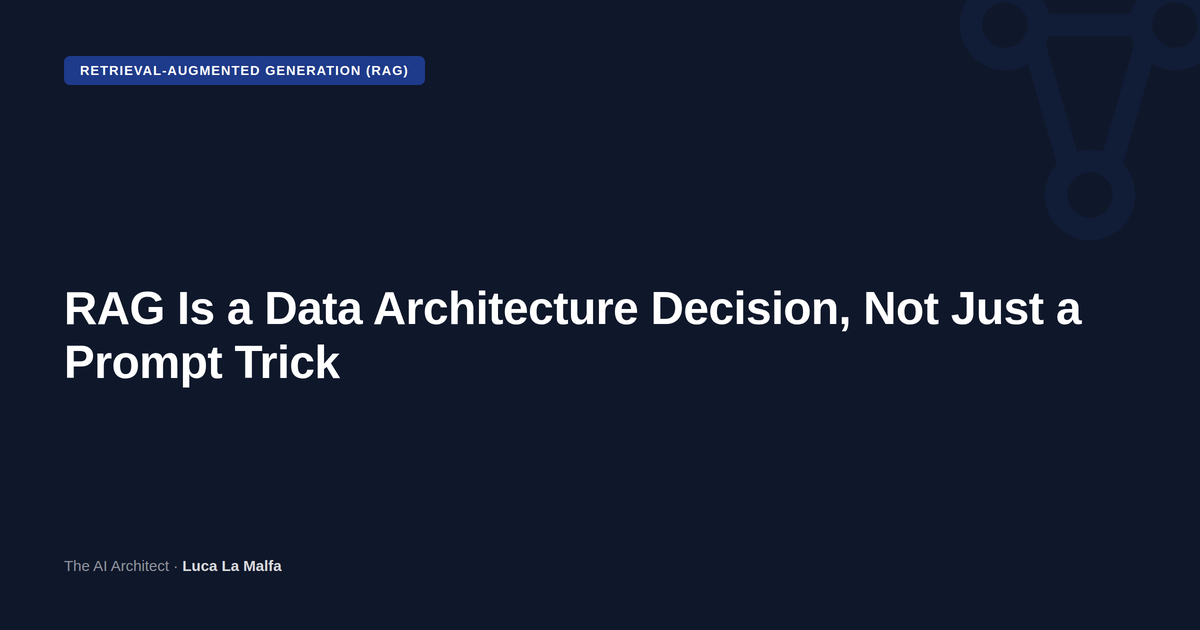
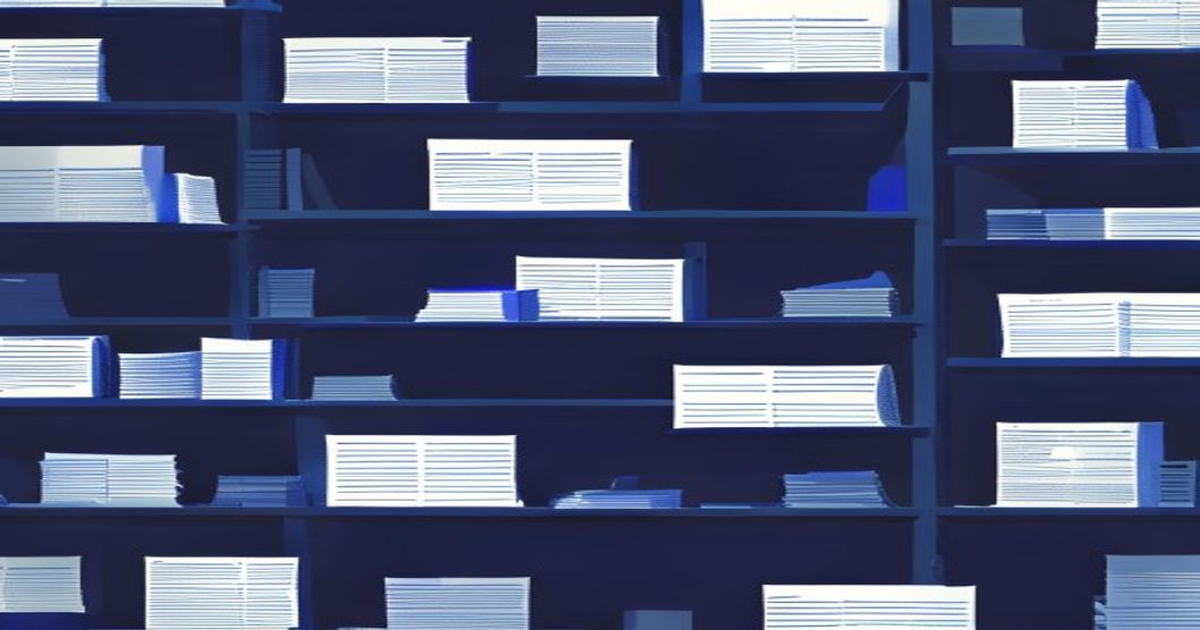
Replace flat-color hero cards with real AI-generated cover images
The branded flat-color card (single accent badge on a near-black
background) didn't read as marketing imagery and had no connection to
each article's actual content. Hero images now use a free, keyless AI
image-generation API: Claude writes a short SUBJECT description specific
to the article's actual idea (agents/site_writer_agent.generate_image_prompt),
which is combined with a fixed style suffix (utils/diagram_renderer.
IMAGE_STYLE_SUFFIX — flat minimalist vector illustration, navy/indigo-blue
palette matching the site's own design) so every image stays visually
consistent and professional regardless of topic. Falls back to an
improved version of the flat-color card (per-theme background color
instead of always near-black, plus a technique-specific icon instead of
a fixed one) if the AI image is ever unreachable — never blocks
publishing either way.

Regenerates all 10 previously-published articles' hero images and
og-default.png with the new approach (same filenames, so no page HTML
needed to change). scripts/regenerate_hero_images.py is the reusable,
committed version of that one-off regeneration.

Claude-Session: https://claude.ai/code/session_01CPQeQt8fRsPUSEt57ixNHQ

diff --git a/utils/diagram_renderer.py b/utils/diagram_renderer.py
@@ -13,8 +13,14 @@ import logging
 import math
 import random
 from pathlib import Path
+from urllib.parse import quote
 
-from config import FONT_BOLD_PATH, FONT_REGULAR_PATH, HERO_IMAGE_HEIGHT, HERO_IMAGE_WIDTH
+import requests
+
+from config import (
+    AI_IMAGE_API_URL, AI_IMAGE_TIMEOUT_SECONDS, FONT_BOLD_PATH, FONT_REGULAR_PATH,
+    HERO_IMAGE_HEIGHT, HERO_IMAGE_WIDTH,
+)
 
 log = logging.getLogger(__name__)
 
@@ -341,16 +347,75 @@ def _build_hero_html(heading: str, badge: str, theme: str) -> str:
     )
 
 
-def render_hero_image(heading: str, badge: str, theme: str, output_path: str | Path) -> bool:
-    """Render a 1200x630 branded cover image, generated for EVERY article regardless of
-    archetype or whether it has any inline diagram blocks (unlike render_flow_diagram /
+# Fixed rendering style appended to every article's Claude-written subject description
+# (agents.site_writer_agent.generate_image_prompt supplies the subject half) — keeps every
+# hero image visually consistent with the blog's own clean, minimal design system
+# (site/template.html's --bg/--header-bg/--accent) regardless of what specific scene each
+# article calls for, the same way THEMES fixes the diagram renderer's palette instead of
+# leaving color choice to the model's judgment.
+IMAGE_STYLE_SUFFIX = (
+    "flat minimalist vector illustration, simple clean geometric shapes with thin outlines, "
+    "generous off-white negative space, restricted color palette of deep navy blue and a "
+    "single indigo-blue accent only, soft and calm, professional editorial tech-blog cover "
+    "art style, no gradients, no 3D rendering, no photorealism, no dramatic lighting or "
+    "shadows, no text, no logos, no people"
+)
+
+
+def _fetch_ai_image(subject_prompt: str, width: int, height: int) -> bytes | None:
+    """Best-effort fetch from a free, keyless AI image generation service. Returns the raw
+    image bytes on success, None on any failure (network error, timeout, non-2xx, or a
+    non-image response) — the caller falls back to the branded flat-color card."""
+    if not subject_prompt:
+        return None
+    full_prompt = f"{subject_prompt}, {IMAGE_STYLE_SUFFIX}"
+    url = f"{AI_IMAGE_API_URL}/{quote(full_prompt)}?width={width}&height={height}&nologo=true"
+    try:
+        resp = requests.get(url, timeout=AI_IMAGE_TIMEOUT_SECONDS)
+        if resp.ok and resp.headers.get("Content-Type", "").startswith("image/"):
+            return resp.content
+        log.warning("AI image fetch returned %s / %s", resp.status_code, resp.headers.get("Content-Type"))
+    except Exception as exc:
+        log.warning("AI image fetch failed: %s", exc)
+    return None
+
+
+def render_hero_image(
+    heading: str, badge: str, theme: str, output_path: str | Path, image_prompt: str | None = None,
+) -> bool:
+    """Render a 1200x630 cover image for an article, generated for EVERY article regardless
+    of archetype or whether it has any inline diagram blocks (unlike render_flow_diagram /
     render_compare_table, which only fire for `diagram`-type blocks). Used as the article's
-    homepage thumbnail and as its Open Graph / Twitter Card / RSS enclosure image. Reuses
-    THEMES + _screenshot_card exactly like the sibling renderers. Best-effort: returns False
-    on any failure — a failed hero render must never abort the article publish (mirrors the
-    existing diagram contract)."""
+    homepage thumbnail and as its Open Graph / Twitter Card / RSS enclosure image.
+
+    If `image_prompt` is given (see agents.site_writer_agent.generate_image_prompt), tries a
+    real AI-generated illustration first (_fetch_ai_image); on any failure — or if no prompt
+    is given at all, e.g. for the site-wide og-default.png fallback — renders the branded
+    flat-color card instead. Best-effort throughout: returns False only if BOTH paths fail —
+    a bad hero render must never abort the article publish (mirrors the diagram contract)."""
     if not heading:
         return False
+
+    if image_prompt:
+        img_bytes = _fetch_ai_image(image_prompt, HERO_IMAGE_WIDTH, HERO_IMAGE_HEIGHT)
+        if img_bytes:
+            try:
+                import io
+
+                from PIL import Image, ImageOps
+
+                with Image.open(io.BytesIO(img_bytes)) as img:
+                    img = ImageOps.exif_transpose(img).convert("RGB")
+                    img = ImageOps.fit(img, (HERO_IMAGE_WIDTH, HERO_IMAGE_HEIGHT), Image.LANCZOS)
+                    out = Path(output_path)
+                    out.parent.mkdir(parents=True, exist_ok=True)
+                    img.save(out)
+                log.info("Rendered AI hero image: %s", output_path)
+                return True
+            except Exception as exc:
+                log.warning("Failed to process AI image for '%s': %s", heading, exc)
+        log.warning("AI image generation failed for '%s' — falling back to branded card", heading)
+
     html_doc = _build_hero_html(heading, badge, theme)
     ok = _screenshot_card(html_doc, output_path, heading)
     if ok:

diff --git a/agents/site_writer_agent.py b/agents/site_writer_agent.py
@@ -242,28 +242,31 @@ def _clean_diagram_block(b: dict) -> dict | None:
 
 
 _IMAGE_PROMPT_SYSTEM = """\
-You write short visual descriptions for an AI image generator, to create each article's \
-cover image on Luca's "AI Architect" blog. Reply with ONLY the image description — one \
-sentence, max 30 words, no preamble, no quotes.
+You describe the SUBJECT of a cover illustration for one article on Luca's "AI Architect" \
+blog. Reply with ONLY the subject description — one sentence, max 20 words, no preamble, \
+no quotes.
 
-Describe an abstract or conceptual illustration (shapes, networks, flows, light, texture — \
-never literal screenshots, UI mockups, or readable text/code) that visually evokes the \
-SPECIFIC idea of this article, not just its general technique category — e.g. differentiate \
-"cutting through noise to find one signal" from "many parallel threads converging" even \
-though both could nominally illustrate the same technique. No people, no logos, no brand \
-names, no charts with axes.
+Describe abstract shapes, objects, or a scene (never literal screenshots, UI mockups, or \
+readable text/code) that visually evokes the SPECIFIC idea of this article, not just its \
+general technique category — e.g. differentiate "cutting through noise to find one signal" \
+from "many parallel threads converging" even though both could nominally illustrate the same \
+technique. No people, no logos, no brand names, no charts with axes.
+
+Do NOT mention colors, art style, medium, or lighting — that is fixed separately and applied \
+to every article for visual consistency across the blog. Describe only the subject/composition.
 """
 
 
 def generate_image_prompt(title: str, technique: str, dek: str, client: anthropic.Anthropic) -> str:
-    """Ask Claude for a short visual-generation prompt for this article's AI-generated cover
-    image (see utils/diagram_renderer.render_hero_image). Best-effort: a fixed, generic
-    fallback prompt on any failure — this must never block publishing the article."""
-    fallback = f"abstract conceptual illustration representing {technique}, modern minimal tech style"
+    """Ask Claude for this article's cover-image SUBJECT only — utils.diagram_renderer's
+    IMAGE_STYLE_SUFFIX supplies the fixed style half of the final prompt sent to the image
+    generator, so this only ever needs to describe the scene. Best-effort: a fixed, generic
+    fallback subject on any failure — this must never block publishing the article."""
+    fallback = f"abstract shapes representing {technique}"
     try:
         msg = client.messages.create(
             model="claude-haiku-4-5-20251001",
-            max_tokens=80,
+            max_tokens=60,
             temperature=0.9,
             system=_IMAGE_PROMPT_SYSTEM,
             messages=[{

diff --git a/scripts/backfill_hero_images.py b/scripts/backfill_hero_images.py
@@ -20,6 +20,7 @@ needs to run again if a future schema migration leaves more articles without a h
 Requires `playwright install chromium` (see README.md / CLAUDE.md environment setup).
 """
 
+import os
 import re
 import sys
 from pathlib import Path
@@ -27,10 +28,14 @@ from pathlib import Path
 ROOT = Path(__file__).resolve().parents[1]
 sys.path.insert(0, str(ROOT))
 
+import anthropic
+
+from agents.site_writer_agent import generate_image_prompt
 from config import (
     POST_IMAGES_DIR, POST_TEMPLATE_PATH, POSTS_DIR, ROBOTS_PATH, RSS_PATH,
     SITE_OUTPUT_PATH, SITEMAP_PATH, TAG_TEMPLATE_PATH, TAGS_DIR, TEMPLATE_PATH,
 )
+from site_pipeline import _load_env, _require_env
 from utils.articles import load_articles, save_articles, slugify
 from utils.diagram_renderer import random_theme, render_hero_image
 from utils.seo import build_robots_txt, build_rss_feed, build_sitemap
@@ -132,6 +137,10 @@ def patch_legacy_post_page(article: dict, all_articles: list[dict]) -> None:
 
 
 def main() -> None:
+    _load_env()
+    _require_env("ANTHROPIC_API_KEY")
+    client = anthropic.Anthropic(api_key=os.environ["ANTHROPIC_API_KEY"])
+
     articles = load_articles()
     backfill_slugs = {a["slug"] for a in articles if not a.get("og_image")}
     print(f"{len(backfill_slugs)} articles need a hero image")
@@ -141,9 +150,12 @@ def main() -> None:
             continue
         slug = article["slug"]
         hero_filename = f"{slug}-hero.png"
+        image_prompt = generate_image_prompt(
+            article.get("title", ""), article.get("technique", ""), article.get("dek", ""), client,
+        )
         ok = render_hero_image(
             article.get("title", ""), article.get("technique", ""), random_theme(),
-            POST_IMAGES_DIR / hero_filename,
+            POST_IMAGES_DIR / hero_filename, image_prompt=image_prompt,
         )
         if ok:
             article["og_image"] = hero_filename

diff --git a/scripts/regenerate_hero_images.py b/scripts/regenerate_hero_images.py
@@ -1,0 +1,52 @@
+#!/usr/bin/env python3
+"""One-off: regenerates every already-published article's hero image using the AI-image
+path (agents.site_writer_agent.generate_image_prompt + utils.diagram_renderer.render_hero_image),
+e.g. after a prompt/style change to IMAGE_STYLE_SUFFIX. Keeps each article's existing
+og_image filename — only the PNG bytes change — so no page HTML needs to be rebuilt; every
+page already references the correct filename.
+
+Requires ANTHROPIC_API_KEY (see README.md / CLAUDE.md) and `playwright install chromium`
+(only reached as a fallback if the AI image fetch fails).
+"""
+
+import os
+import sys
+from pathlib import Path
+
+ROOT = Path(__file__).resolve().parents[1]
+sys.path.insert(0, str(ROOT))
+
+import anthropic
+
+from agents.site_writer_agent import generate_image_prompt
+from config import POST_IMAGES_DIR
+from site_pipeline import _load_env, _require_env
+from utils.articles import load_articles
+from utils.diagram_renderer import random_theme, render_hero_image
+
+
+def main() -> None:
+    _load_env()
+    _require_env("ANTHROPIC_API_KEY")
+    client = anthropic.Anthropic(api_key=os.environ["ANTHROPIC_API_KEY"])
+
+    articles = load_articles()
+    targets = [a for a in articles if a.get("og_image")]
+    print(f"Regenerating hero images for {len(targets)} articles")
+
+    for article in targets:
+        prompt = generate_image_prompt(
+            article["title"], article.get("technique", ""), article.get("dek", ""), client,
+        )
+        ok = render_hero_image(
+            article["title"], article.get("technique", ""), random_theme(),
+            POST_IMAGES_DIR / article["og_image"], image_prompt=prompt,
+        )
+        status = "OK" if ok else "FAILED (kept previous image)"
+        print(f"  {status}: {article['slug']} — {prompt[:70]}")
+
+    print("done")
+
+
+if __name__ == "__main__":
+    main()

diff --git a/site_pipeline.py b/site_pipeline.py
@@ -44,7 +44,7 @@ from pathlib import Path
 import anthropic
 
 from agents.feed_agent import fetch_feeds
-from agents.site_writer_agent import write_technique_article
+from agents.site_writer_agent import generate_image_prompt, write_technique_article
 from agents.writer_agent import check_human_voice_longform
 from config import (
     AI_ARCHITECT_TECHNIQUES,
@@ -435,7 +435,11 @@ def main() -> None:
     blocks = _render_diagram_blocks(slug, written.get("blocks", []))
 
     hero_filename = f"{slug}-hero.png"
-    hero_ok = render_hero_image(written["title"], technique, random_theme(), POST_IMAGES_DIR / hero_filename)
+    image_prompt = generate_image_prompt(written["title"], technique, written["dek"], client)
+    hero_ok = render_hero_image(
+        written["title"], technique, random_theme(), POST_IMAGES_DIR / hero_filename,
+        image_prompt=image_prompt,
+    )
     if not hero_ok:
         log.warning("Hero image render failed for '%s' — publishing without a thumbnail", written["title"])
     og_image = hero_filename if hero_ok else None

diff --git a/config.py b/config.py
@@ -271,6 +271,13 @@ TAG_PAGE_MIN_ARTICLES_FOR_SEO = 2
 # list every URL) — keeps feed.xml bounded as the archive grows over years.
 RSS_MAX_ITEMS = 30
 
+# Free, keyless AI image generation used for each article's hero/cover image
+# (utils/diagram_renderer.render_hero_image) — no account, no API key, no per-image cost.
+# No SLA: a failed/slow request falls back to the branded flat-color card, never blocks
+# publishing (see render_hero_image's docstring).
+AI_IMAGE_API_URL = "https://image.pollinations.ai/prompt"
+AI_IMAGE_TIMEOUT_SECONDS = 45
+
 # Fixed OG/Twitter "large image" card size for the branded hero image
 # (utils/diagram_renderer.render_hero_image) — the widely-supported 1200x630 convention.
 HERO_IMAGE_WIDTH = 1200

diff --git a/scripts/gen_static_assets.py b/scripts/gen_static_assets.py
@@ -22,13 +22,17 @@ SITE = ROOT / "site"
 
 
 def main() -> None:
-    # 1. og-default.png — fixed brand theme (not random), represents the whole site
+    # 1. og-default.png — fixed subject/theme (not per-article), represents the whole site
     # rather than one article, so it shouldn't vary run to run like a per-article hero.
     render_hero_image(
         "The AI Architect — Luca La Malfa",
         "Practical AI Architecture",
         "indigo",
         SITE / "og-default.png",
+        image_prompt=(
+            "many distinct interlocking architectural shapes of different sizes assembling "
+            "together into one single coherent structure"
+        ),
     )
     print("og-default.png done")
 

diff --git a/CLAUDE.md b/CLAUDE.md
@@ -61,7 +61,7 @@ The scripts require these environment variables (defined in `.env` locally, or a
 4. **`agents/site_writer_agent.py`** — Claude Sonnet writes the article as an ordered `blocks` list (`prose`/`callout`/`quote`/`diagram`/`code_project`/`list`), constrained by the assigned archetype, plus `title`/`dek`/`tags`. Also ports anti-template prose guidance (vary the opening move, uneven rhythm, take a side) from `writer_agent.py`'s LinkedIn prompt.
 5. `site_pipeline.py` enforces the archetype's block constraints in code on every attempt (`_enforce_archetype_constraints()`: drops disallowed block types, caps each type at its archetype max, best-effort reorders position-constrained blocks), then retries generation once if the result reads as AI-written (`agents/writer_agent.check_human_voice_longform()`), repeats the immediately preceding article's exact block-type sequence, or fails to meet the archetype's minimum block counts (`_blocks_meet_minimums()`) — whichever of the two attempts is better is published (`_pick_best_attempt()`); if neither attempt meets the minimums, the run aborts instead of publishing a structurally broken article.
 6. Curated example projects (name/url/note) come from `TECHNIQUE_EXAMPLE_PROJECTS` in `config.py` — never LLM-generated, to avoid inventing repo URLs; only the usage code/output/note around them (in `code_project` blocks) is written by Claude
-7. **`utils/diagram_renderer.py`** — renders each `diagram`-type block to a PNG under `site/posts/images/`: real HTML/CSS + inline SVG icons, screenshotted with headless Chromium via Playwright (`render_flow_diagram()` for a linear flow, `render_compare_table()` for the `comparison` archetype's optional trade-off table). A random theme is picked per render (`random_theme()`) — deliberately not tied to the technique, or every article on the same topic would render the same color. Best-effort — a failed render just drops that diagram block. Bundled Liberation Sans font under `assets/fonts/` keeps typography consistent across machines.
+7. **`utils/diagram_renderer.py`** — renders each `diagram`-type block to a PNG under `site/posts/images/`: real HTML/CSS + inline SVG icons, screenshotted with headless Chromium via Playwright (`render_flow_diagram()` for a linear flow, `render_compare_table()` for the `comparison` archetype's optional trade-off table). A random theme is picked per render (`random_theme()`) — deliberately not tied to the technique, or every article on the same topic would render the same color. Best-effort — a failed render just drops that diagram block. Bundled Liberation Sans font under `assets/fonts/` keeps typography consistent across machines. Every article also gets one cover/hero image (`render_hero_image()`, `<slug>-hero.png`), used as the homepage thumbnail, `og:image`/Twitter Card image, and RSS enclosure: `agents/site_writer_agent.generate_image_prompt()` asks Claude for a short SUBJECT description specific to that article (not just its technique category), which is combined with a fixed `IMAGE_STYLE_SUFFIX` (flat minimalist vector illustration, navy/indigo-blue palette matching the site's own design) and sent to a free, keyless AI image API (`AI_IMAGE_API_URL` in `config.py`, no account or cost). If that fails for any reason (no SLA on a free service), falls back to a branded flat-color card with a technique-specific icon (`TECHNIQUE_ICONS`) — never blocks publishing either way.
 8. **`utils/site_builder.py`** — `build_post_page()` renders the new permalink page from its `blocks` list via a `_render_block()` type-dispatcher (raises on an unrecognized type rather than silently dropping content on a page that's never re-rendered); `build_home_page()` rebuilds the archive index from the full article list (reads only fields common to old and new article schemas, so needs no schema branching). All plain-text fields are HTML-escaped (`_escape()`, quote-safe for both text and attribute contexts); LLM-authored `html` fields (`prose`/`callout` body) go through an allow-list sanitizer (`_sanitize_rich_html()`, keeps only `<p>`/`<strong>`/`<em>` with no attributes) since that content is indirectly influenced by untrusted RSS inspiration text.
 
 ### LinkedIn pipeline (`main.py` orchestrates `agents/` and `utils/`)
@@ -109,6 +109,7 @@ Defined in `config.py`:
 
 - **Blog writing** (`site_writer_agent.py`): `claude-sonnet-4-6`, max_tokens=3500, temperature=0.8 — original technique article as archetype-constrained content blocks
 - **Blog humanness check** (`writer_agent.py`, `check_human_voice_longform`): `claude-haiku-4-5-20251001`, max_tokens=200, temperature=0 — same idea as the LinkedIn humanness check, calibrated for multi-paragraph article prose instead of a 6-line post
+- **Hero image prompt** (`site_writer_agent.py`, `generate_image_prompt`): `claude-haiku-4-5-20251001`, max_tokens=60, temperature=0.9 — writes only the article-specific SUBJECT of the cover image (style is fixed separately in `utils/diagram_renderer.IMAGE_STYLE_SUFFIX`, not left to the model)
 - **LinkedIn writing** (`writer_agent.py`): `claude-sonnet-4-6`, max_tokens=400, temperature=0.7 — creative post generation
 - **LinkedIn critique** (`writer_agent.py`): `claude-haiku-4-5-20251001`, max_tokens=150, temperature=0 — post quality check
 - **Humanness check** (`writer_agent.py`, `check_human_voice`): `claude-haiku-4-5-20251001`, max_tokens=200, temperature=0 — flags AI-sounding tells (uniform rhythm, hedge-everything tone, visible template, generic conclusions) and scores the post 0-10 on how human it reads; `main.py` retries the write if `human_score < 6`
@@ -117,5 +118,6 @@ Defined in `config.py`:
 ## Dependencies
 
 Core: `anthropic`, `feedparser`, `requests`, `fpdf2`, `Pillow`, `playwright` (+ `playwright install --with-deps chromium` for diagram rendering — only needed by `site_pipeline.py`, not `main.py`)
+- Hero images (`utils/diagram_renderer.render_hero_image`) call a free, keyless external image-generation API (`config.AI_IMAGE_API_URL`, currently Pollinations.ai) via `requests` — no account, no cost, no SLA; the flat-color card render is the fallback if it's ever unreachable
 - No testing framework (single-script utility)
 - No linting config (follow PEP 8)
